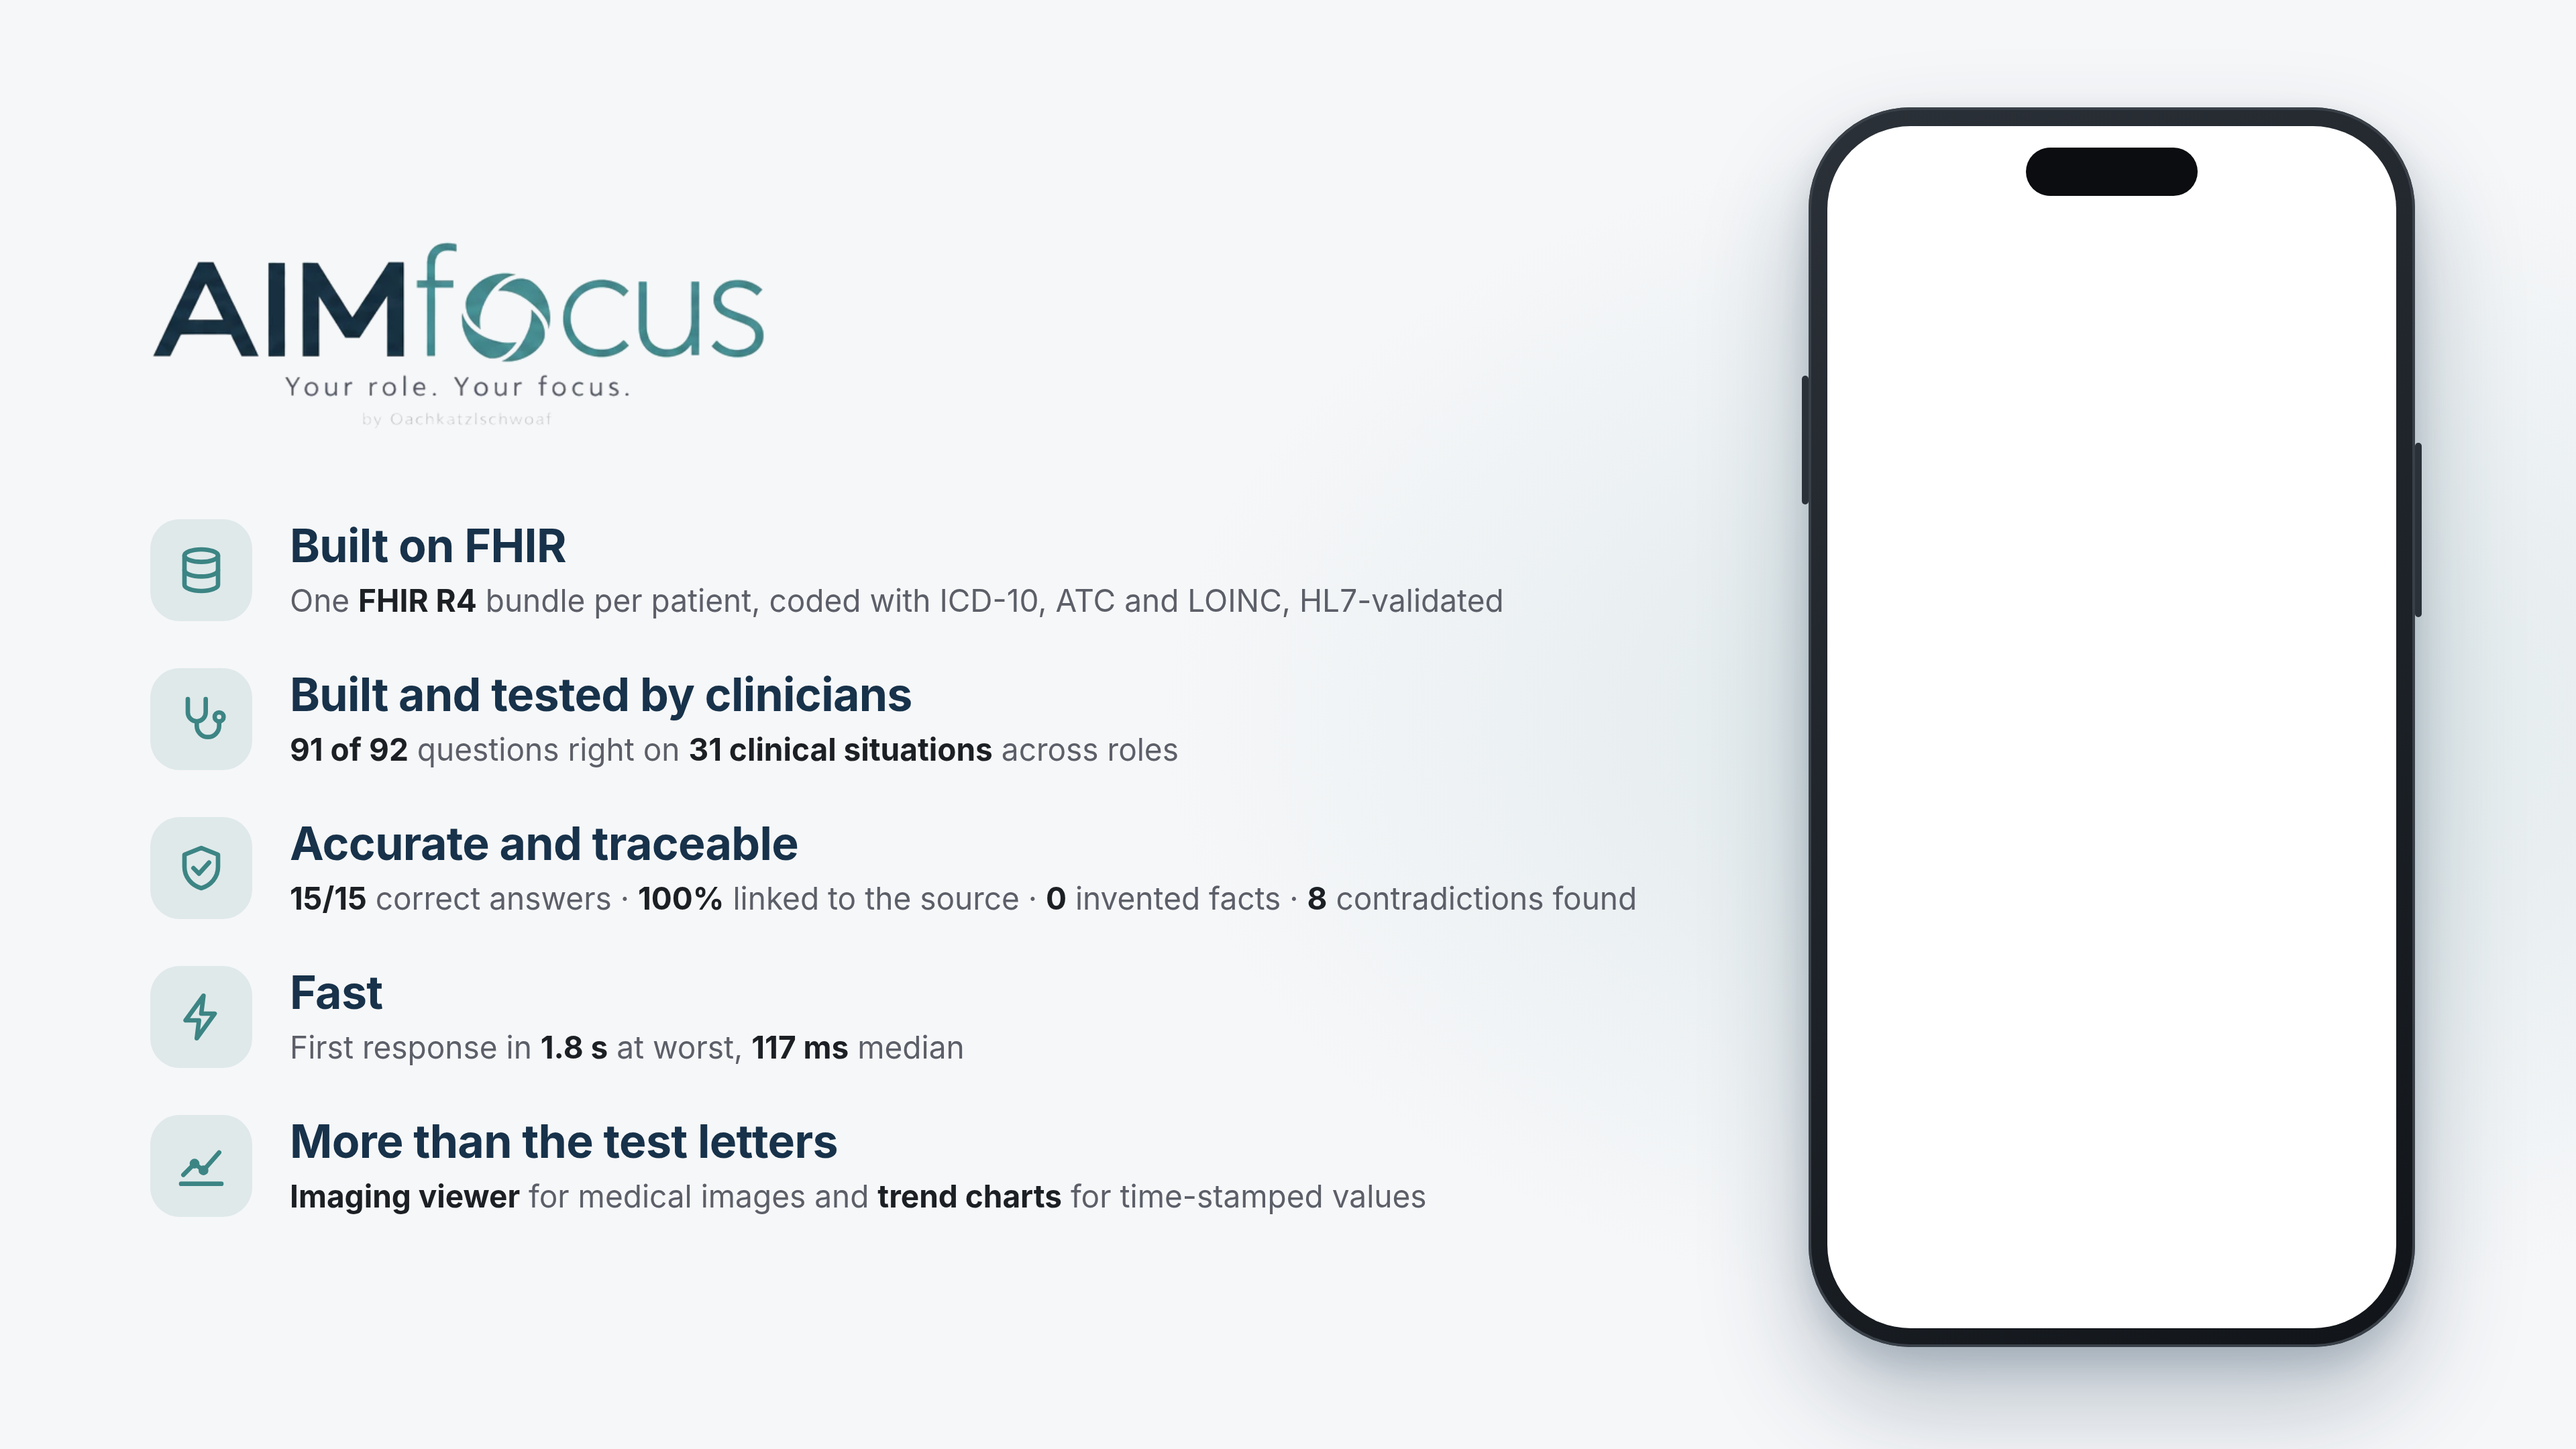
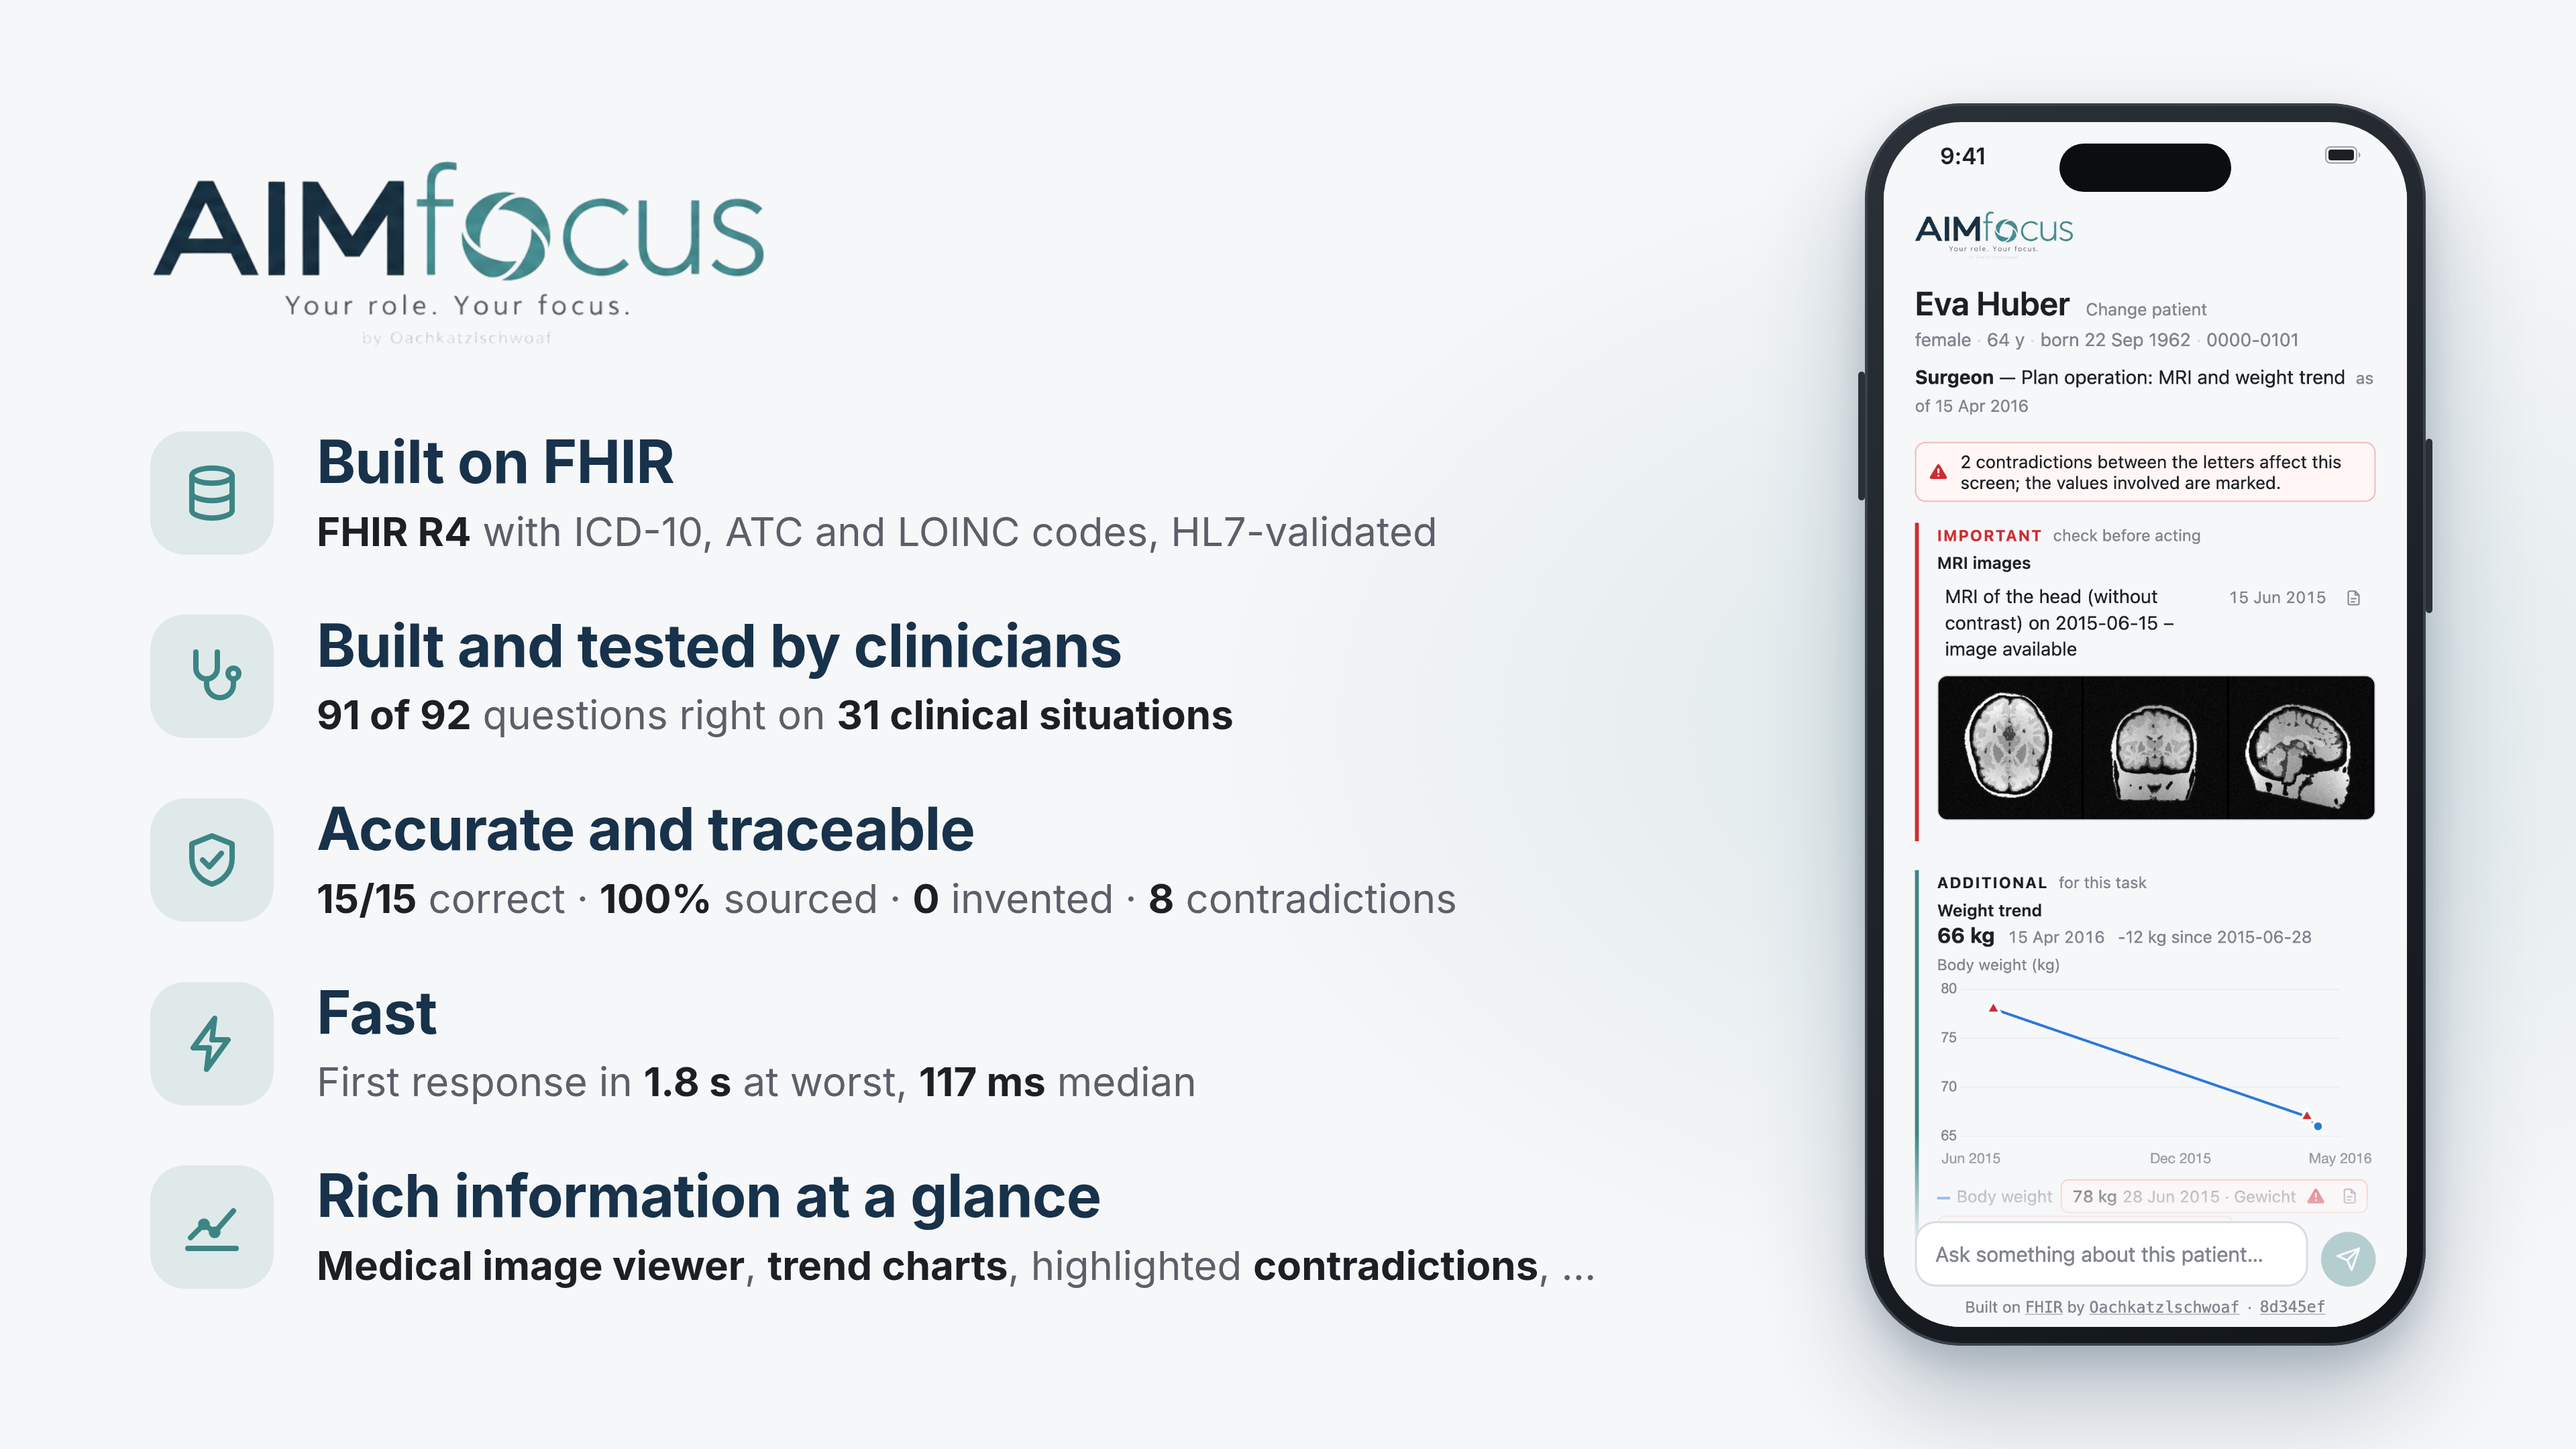
Docs: product slide

diff --git a/docs/product-slide.html b/docs/product-slide.html
@@ -5,7 +5,7 @@
 <title>AIMfocus Product</title>
 <!-- Render: chromium --headless=new --hide-scrollbars --window-size=1920,1080 --force-device-scale-factor=2
      --virtual-time-budget=4000 --screenshot=$PWD/product-slide.png file://$PWD/product-slide.html
-     Phone screen: put the screenshot (390 × 844 or the same aspect ratio) in .screen as <img src="...">. -->
+     Phone screen: phone-screenshot.png (1206 × 2622) below a drawn status bar. -->
 <link href="https://fonts.googleapis.com/css2?family=Inter:wght@400;500;600;700;800&display=swap" rel="stylesheet">
 <style>
   :root {
@@ -28,25 +28,25 @@
       var(--bg);
     color: var(--text-primary);
     font-family: Inter, system-ui, sans-serif;
-    padding: 80px 120px 80px 112px;
-    display: grid; grid-template-columns: 1fr auto; gap: 120px; align-items: center;
+    padding: 72px 112px 72px 112px;
+    display: grid; grid-template-columns: 1fr auto; gap: 72px; align-items: center;
   }
 
   .logo { height: 150px; margin-left: -62px; }
-  .highlights { list-style: none; display: flex; flex-direction: column; gap: 34px; margin-top: 56px; }
-  .highlights li { display: grid; grid-template-columns: 76px 1fr; gap: 28px; align-items: center; }
+  .highlights { list-style: none; display: flex; flex-direction: column; gap: 38px; margin-top: 48px; }
+  .highlights li { display: grid; grid-template-columns: 92px 1fr; gap: 32px; align-items: center; }
   .icon {
-    width: 76px; height: 76px; border-radius: 22px; background: var(--accent-soft);
+    width: 92px; height: 92px; border-radius: 26px; background: var(--accent-soft);
     display: grid; place-items: center;
   }
-  .icon svg { width: 40px; height: 40px; fill: none; stroke: var(--accent); stroke-width: 2; stroke-linecap: round; stroke-linejoin: round; }
-  .highlights h2 { font-size: 34px; font-weight: 700; color: var(--navy); letter-spacing: -.01em; line-height: 1.2; }
-  .highlights p { font-size: 23px; color: var(--text-secondary); line-height: 1.4; margin-top: 4px; }
+  .icon svg { width: 48px; height: 48px; fill: none; stroke: var(--accent); stroke-width: 2; stroke-linecap: round; stroke-linejoin: round; }
+  .highlights h2 { font-size: 44px; font-weight: 700; color: var(--navy); letter-spacing: -.01em; line-height: 1.2; }
+  .highlights p { font-size: 30px; color: var(--text-secondary); line-height: 1.4; margin-top: 4px; }
   .highlights p b { color: var(--text-primary); font-weight: 700; }
 
   /* Phone frame */
   .phone {
-    position: relative; width: 452px; height: 924px; border-radius: 76px; padding: 14px;
+    position: relative; width: 418px; height: 926px; border-radius: 72px; padding: 14px;
     background: linear-gradient(145deg, #2b3138, #11151a);
     box-shadow: 0 0 0 2px #3a4048 inset, 0 40px 80px rgba(23,50,74,.28), 0 12px 24px rgba(23,50,74,.16);
   }
@@ -56,9 +56,12 @@
   .phone::before { left: -5px; top: 200px; height: 96px; box-shadow: 0 -76px 0 -24px #2b3138; }
   .phone::after { right: -5px; top: 250px; height: 130px; }
   .screen {
-    position: relative; width: 100%; height: 100%; border-radius: 62px; overflow: hidden; background: #ffffff;
+    position: relative; width: 100%; height: 100%; border-radius: 58px; overflow: hidden; background: #f6f7f9; padding-top: 50px;
   }
-  .screen img { width: 100%; height: 100%; object-fit: cover; object-position: top; display: block; }
+  .screen img { width: 100%; height: auto; display: block; }
+  .status { position: absolute; top: 15px; left: 0; right: 0; padding: 0 34px 0 42px; display: flex; justify-content: space-between;
+    font-size: 17px; font-weight: 600; color: #1c2024; letter-spacing: -.01em; }
+  .status svg { width: 27px; height: 13px; margin-top: 3px; }
   .island {
     position: absolute; top: 16px; left: 50%; transform: translateX(-50%);
     width: 128px; height: 36px; border-radius: 18px; background: #0b0d10; z-index: 1;
@@ -71,15 +74,15 @@
     <ul class="highlights">
       <li>
         <div class="icon"><svg viewBox="0 0 24 24"><ellipse cx="12" cy="5.5" rx="7.5" ry="2.8"/><path d="M4.5 5.5v6.5c0 1.5 3.4 2.8 7.5 2.8s7.5-1.3 7.5-2.8V5.5"/><path d="M4.5 12v6.5c0 1.5 3.4 2.8 7.5 2.8s7.5-1.3 7.5-2.8V12"/></svg></div>
-        <div><h2>Built on FHIR</h2><p>One <b>FHIR R4</b> bundle per patient, coded with ICD-10, ATC and LOINC, HL7-validated</p></div>
+        <div><h2>Built on FHIR</h2><p><b>FHIR R4</b> with ICD-10, ATC and LOINC codes, HL7-validated</p></div>
       </li>
       <li>
         <div class="icon"><svg viewBox="0 0 24 24"><path d="M6 3v6a4 4 0 0 0 8 0V3"/><path d="M10 13v2a5 5 0 0 0 10 0v-2"/><circle cx="20" cy="11" r="2"/></svg></div>
-        <div><h2>Built and tested by clinicians</h2><p><b>91 of 92</b> questions right on <b>31 clinical situations</b> across roles</p></div>
+        <div><h2>Built and tested by clinicians</h2><p><b>91 of 92</b> questions right on <b>31 clinical situations</b></p></div>
       </li>
       <li>
         <div class="icon"><svg viewBox="0 0 24 24"><path d="M12 3l7.5 3v5.5c0 4.6-3.2 8.3-7.5 9.5-4.3-1.2-7.5-4.9-7.5-9.5V6z"/><path d="M8.5 12l2.5 2.5 4.5-5"/></svg></div>
-        <div><h2>Accurate and traceable</h2><p><b>15/15</b> correct answers · <b>100%</b> linked to the source · <b>0</b> invented facts · <b>8</b> contradictions found</p></div>
+        <div><h2>Accurate and traceable</h2><p><b>15/15</b> correct · <b>100%</b> sourced · <b>0</b> invented · <b>8</b> contradictions</p></div>
       </li>
       <li>
         <div class="icon"><svg viewBox="0 0 24 24"><path d="M13 2.5L5 13.5h6l-1 8 8-11h-6z"/></svg></div>
@@ -87,7 +90,7 @@
       </li>
       <li>
         <div class="icon"><svg viewBox="0 0 24 24"><path d="M3 20h18"/><path d="M4 16l5-5 4 3 7-8"/><circle cx="9" cy="11" r="1.2"/><circle cx="13" cy="14" r="1.2"/></svg></div>
-        <div><h2>More than the test letters</h2><p><b>Imaging viewer</b> for medical images and <b>trend charts</b> for time-stamped values</p></div>
+        <div><h2>Rich information at a glance</h2><p><b>Medical image viewer</b>, <b>trend charts</b>, highlighted <b>contradictions</b>, …</p></div>
       </li>
     </ul>
   </main>
@@ -95,7 +98,8 @@
   <div class="phone">
     <div class="screen">
       <div class="island"></div>
-      <!-- <img src="phone-screenshot.png" alt="AIMfocus screen on a phone"> -->
+      <div class="status"><span>9:41</span><svg viewBox="0 0 27 13"><rect x=".5" y=".5" width="23" height="12" rx="3.5" fill="none" stroke="#1c2024" opacity=".4"/><rect x="2.5" y="2.5" width="19" height="8" rx="2" fill="#1c2024"/><path d="M25 4.5v4c.8-.3 1.3-1.1 1.3-2s-.5-1.7-1.3-2z" fill="#1c2024" opacity=".4"/></svg></div>
+      <img src="phone-screenshot.png" alt="AIMfocus screen on a phone">
     </div>
   </div>
 </body>
